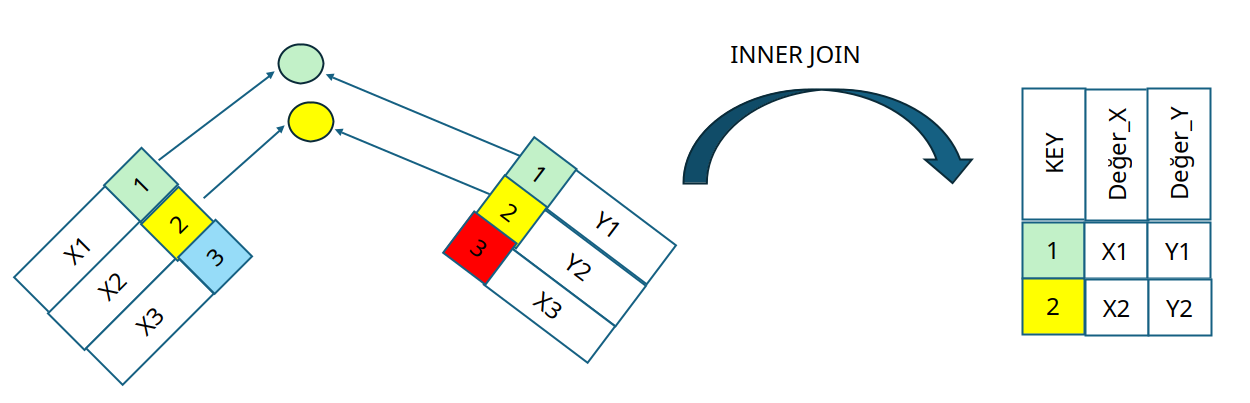
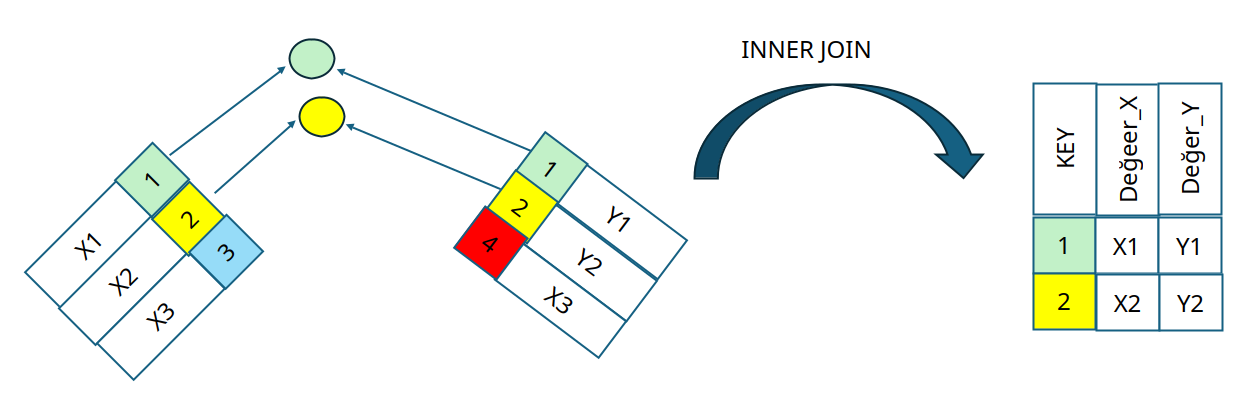
inner join düzeltme

diff --git a/course-contents/sql-join-concept-tr.md b/course-contents/sql-join-concept-tr.md
@@ -6,8 +6,14 @@
 - birleştirme işlemini Venn diagram olarak düşünmek iyi olur.
 - Ama aslında, bu bir küme işlemi değildir
 
-
 ![join-inner-example1-tr](images/join-inner-example1-tr.png)
+
+Aşağıda iç birleştirme (inner join) için aşağıda başka bir örnek resim görebilirsiniz.
+
+![iç birleştirme (inner join)](images/join-inner.png)
+
+Yukarıdaki örnekte X ve Y tablolarındaki anahtar değerleri 1 ve 2 birleştirilir.
+Ama X tablosundaki 3 anahtar değeri ve Y tablosundaki 4 anahtar değeri 2 tabloda birden olmadığı için iç birleştirme sonucuna getirilmemiştir.
 
 
 ## JOIN Birleştirme Söz Dizimi
